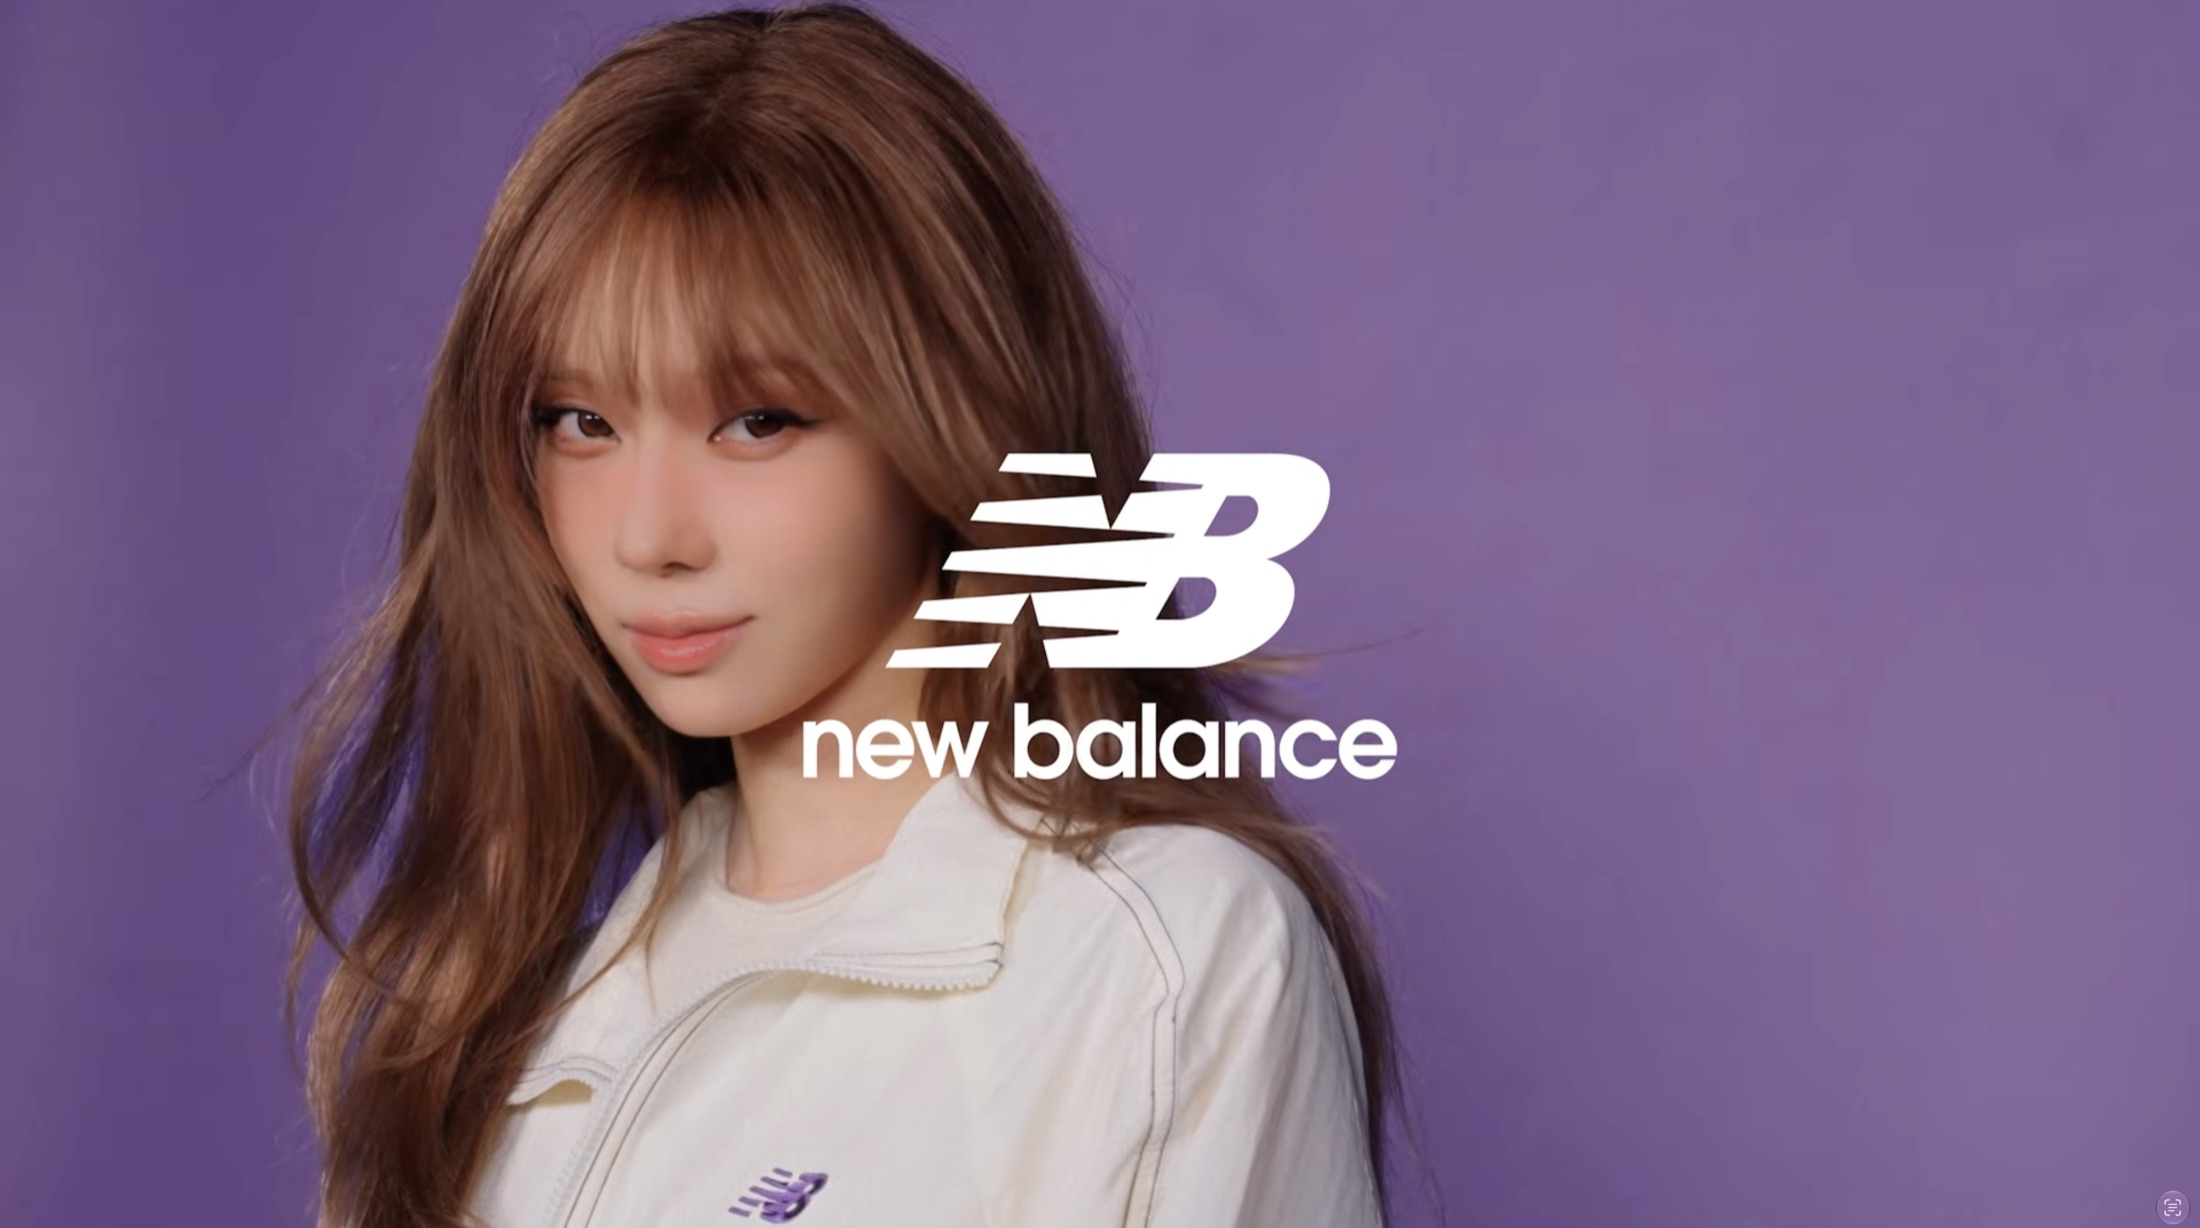
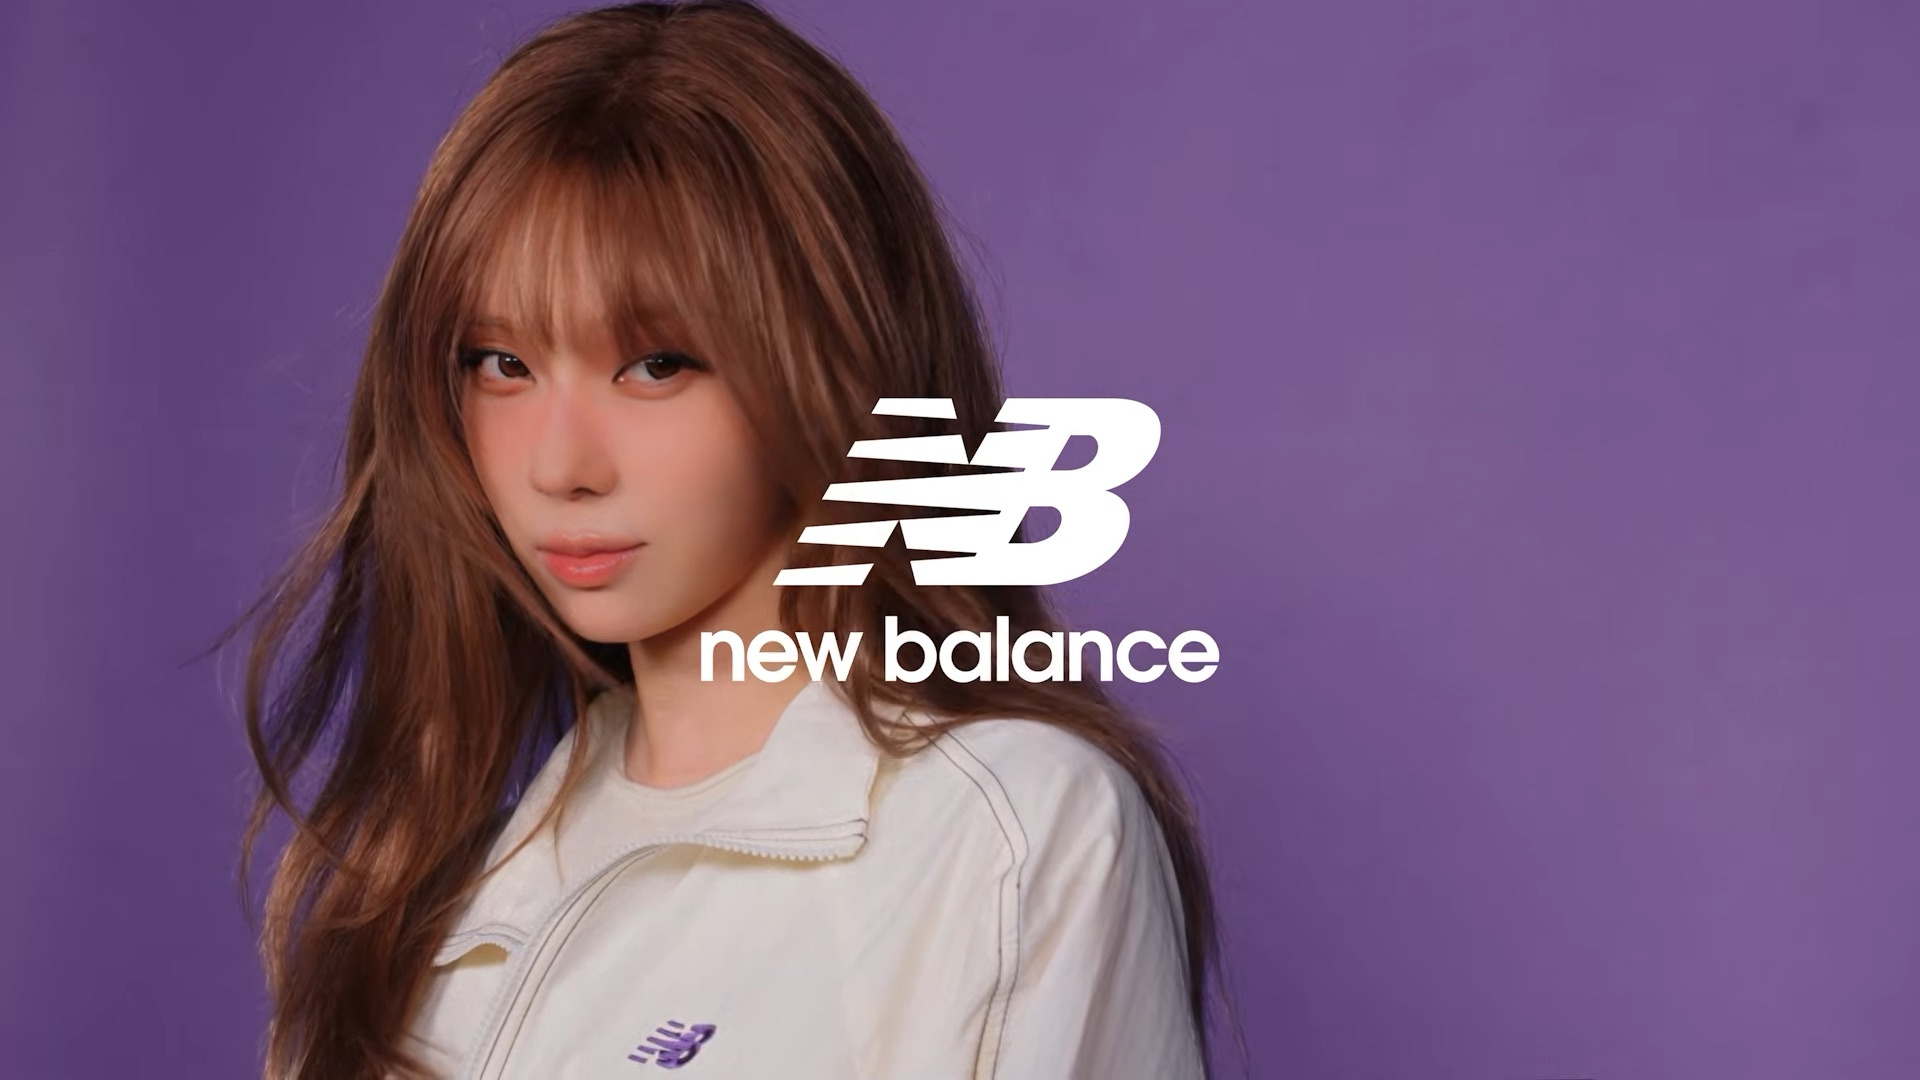
Replace New Balance commercial thumbnails

diff --git a/src/data.js b/src/data.js
@@ -42,8 +42,8 @@ export const COMMERCIALS = [
     role: "AI Background Cleanup · AC",
     image: "/commercials/new-balance-winter-escape.jpg",
     imageAlt: "WINTER in a New Balance windbreaker against a purple studio background",
-    imageWidth: 2200,
-    imageHeight: 1228,
+    imageWidth: 1920,
+    imageHeight: 1080,
     watchUrl: "https://youtu.be/jN1Aq4CmN1U",
   },
   {
@@ -56,8 +56,8 @@ export const COMMERCIALS = [
     role: "AI Background Cleanup · AC",
     image: "/commercials/new-balance-winter-flying77.jpg",
     imageAlt: "WINTER in a gray New Balance down jacket with city buildings behind her",
-    imageWidth: 2200,
-    imageHeight: 1230,
+    imageWidth: 1920,
+    imageHeight: 1080,
     watchUrl: "https://youtu.be/3y55lCNbdpY",
   },
 ];
